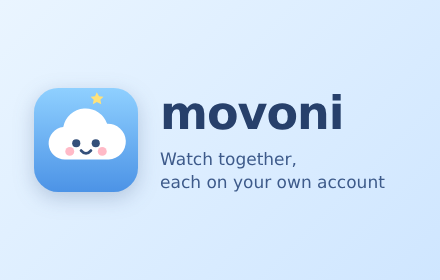
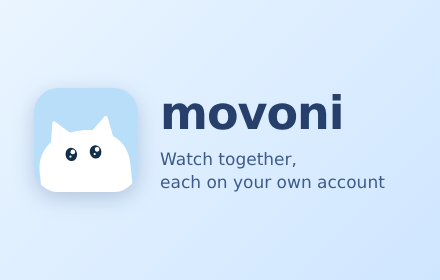
1.0.0 릴리스 노트에 디자인 개편 포함, 프로모션 타일을 새 아이콘으로 교체
Claude-Session: https://claude.ai/code/session_01Sd4ee7vLNsPVnciYtMv8C8

Changed region(s): [[0.0591, 0.3143, 0.325, 0.6857]]

diff --git a/CHANGELOG.md b/CHANGELOG.md
@@ -2,7 +2,9 @@
 
 버전은 확장과 서버가 같이 쓰는 번호예요(둘은 같이 배포합니다). 형식은 [Keep a Changelog](https://keepachangelog.com/ko/1.1.0/)를 따르고, 릴리스 절차는 `docs/release.md` 에 있어요.
 
-## [미출시]
+## [1.0.0] - 2026-10-24
+
+크롬 웹스토어에 처음 올리는 정식 버전이에요.
 
 ### 바뀐 점
 - 확장 아이콘을 하늘색 타일 위에서 빼꼼 올려다보는 흰 고양이로 바꿨어요. 개발용 확장 아이콘은 오른쪽 아래 주황 점으로 구분돼요.
@@ -21,12 +23,6 @@
 - 비밀번호가 필요한 방에 처음 들어갈 때는 오류처럼 빨갛게 보이지 않고, 틀렸을 때만 오류로 보여요.
 - 설정 메뉴의 초대는 `링크 / 코드` 두 칸이고, 복사하면 잠깐 "복사했어요"로 바뀌어요.
 - 프사는 `이모지 | 사진`으로 고르고, 참가자 화면에서는 방 설정 대신 현재 조작 방식만 한 줄로 보여요.
-
-## [1.0.0] - 2026-10-24
-
-크롬 웹스토어에 처음 올리는 정식 버전이에요.
-
-### 바뀐 점
 - 팝업이 `방 / 내 설정` 탭으로 나뉘고, 방 만들기와 참가도 `만들기 / 참가`로 나뉘어 더 단순해졌어요
 - 프로필의 색과 프사는 `꾸미기`로 접어 두었어요
 - 채팅은 Enter로 보내고, 위로 스크롤해 둔 동안 새 메시지가 오면 `새 메시지 N개 ↓`로 알려 줘요
